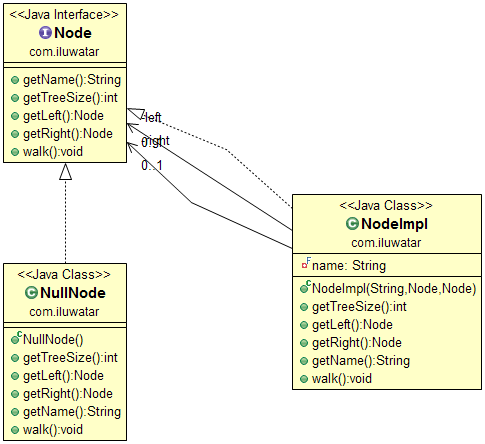
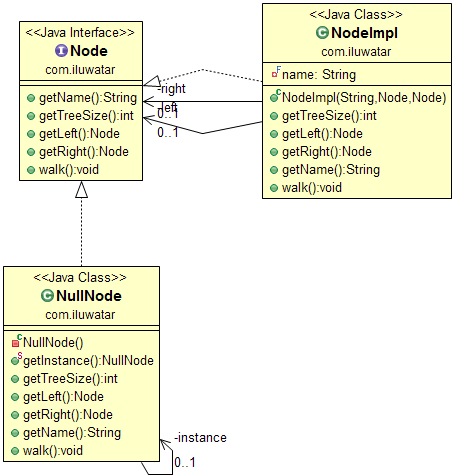
Null object as a singleton #50

diff --git a/null-object/src/main/java/com/iluwatar/App.java b/null-object/src/main/java/com/iluwatar/App.java
@@ -18,14 +18,14 @@ public class App
     	Node root = new NodeImpl("1",
     			new NodeImpl("11",
     					new NodeImpl("111",
-    							new NullNode(),
-    							new NullNode()),
-    					new NullNode()), 
+    							NullNode.getInstance(),
+    							NullNode.getInstance()),
+    					NullNode.getInstance()), 
     			new NodeImpl("12",
-    					new NullNode(),
+    					NullNode.getInstance(),
     					new NodeImpl("122",
-    							new NullNode(),
-    							new NullNode())));
+    							NullNode.getInstance(),
+    							NullNode.getInstance())));
 
     	root.walk();
     }

diff --git a/null-object/src/main/java/com/iluwatar/NullNode.java b/null-object/src/main/java/com/iluwatar/NullNode.java
@@ -3,10 +3,21 @@ package com.iluwatar;
 /**
  * 
  * Null Object implementation for binary tree node.
+ * 
+ * Implemented as Singleton, since all the NullNodes are the same.
  *
  */
 public class NullNode implements Node {
 
+	private static NullNode instance = new NullNode();
+	
+	private NullNode() {
+	}
+	
+	public static NullNode getInstance() {
+		return instance;
+	}
+	
 	@Override
 	public int getTreeSize() {
 		return 0;
